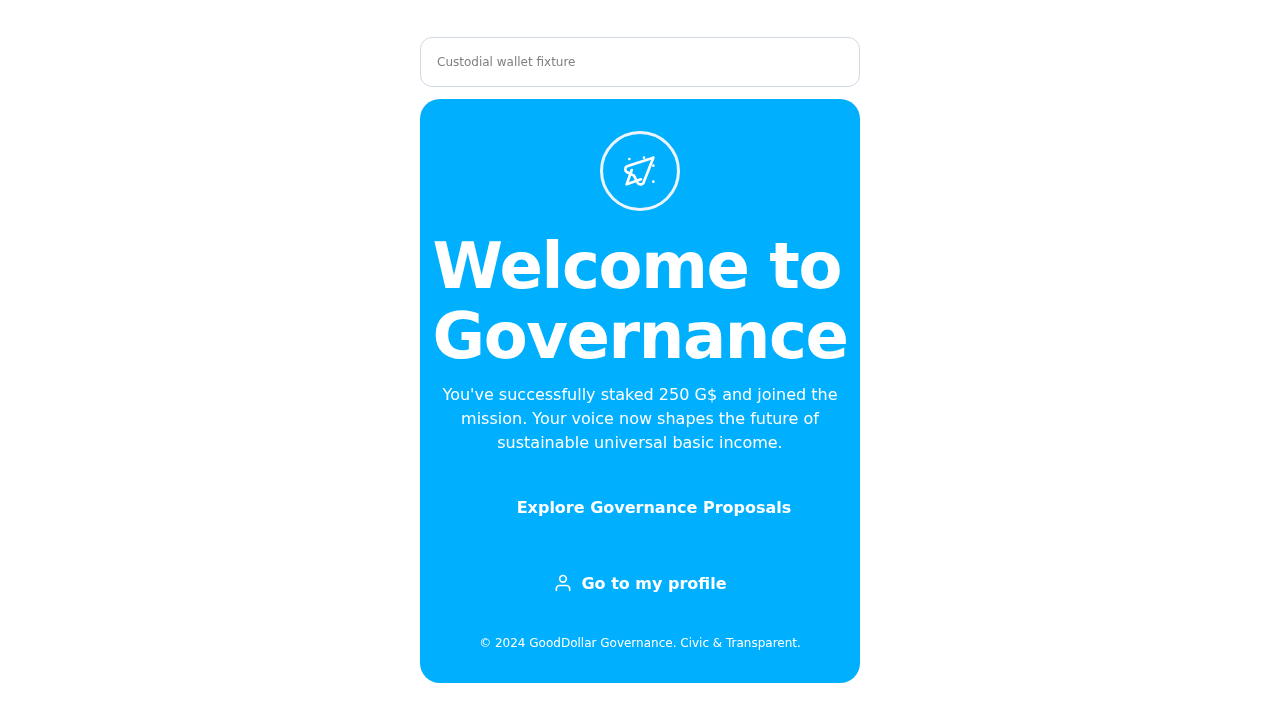
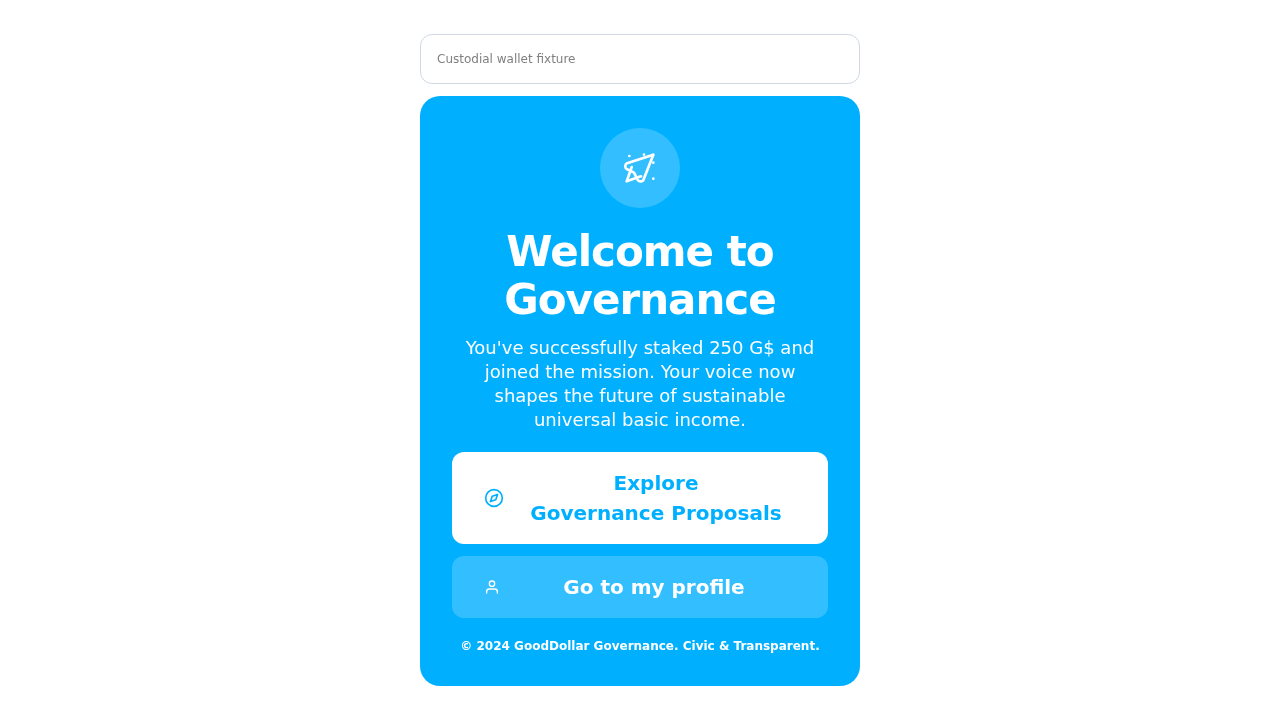
fix: align success screen design elements with Figma specifications
- Icon circle: Adjusted to 80x80px with 20% opacity white background (rgba(255,255,255,0.2)) to match figma overlay.
- Heading: level 3 (42px size) matches 40px figma text.
- Buttons: Corner radius set to 12px () for both.
- Primary Button: solid white background with brand primary text and sm compass icon.
- Secondary Button: 20% opacity white background (rgba(255,255,255,0.2)) with white text and xs user icon.
- Padding and spacing: Card padding matches 32px (), gap sets to .

diff --git a/packages/governance-widget/src/onboarding/steps/SuccessStepContent.tsx b/packages/governance-widget/src/onboarding/steps/SuccessStepContent.tsx
@@ -1,5 +1,5 @@
 import React from 'react'
-import { YStack } from 'tamagui'
+import { YStack, XStack } from 'tamagui'
 import { Button, ButtonText, Heading, Icon, Text, createComponent } from '@goodwidget/ui'
 import type { GovernanceOnboardingAction } from '../../types'
 
@@ -10,27 +10,26 @@ import type { GovernanceOnboardingAction } from '../../types'
 const SuccessCard = createComponent(YStack, {
   name: 'OnboardingSuccessCard',
   width: '100%',
-  borderRadius: '$5',
-  padding: '$6',
-  gap: '$4',
+  borderRadius: '$5', // 20px radius
+  padding: '$8',      // 32px padding
+  gap: '$5',
   alignItems: 'center',
   backgroundColor: '$primary',
 })
 
 /**
- * Celebration icon container — solid semi-transparent white fill circle.
- * Matches Figma: ~56px filled circle, no border ring.
+ * Celebration icon container — 20% opacity solid white fill circle.
+ * Matches Figma: 80x80px filled circle with 20% opacity white background, no border ring.
  * Named 'OnboardingCelebrationIcon' for theme overrides.
  */
 const CelebrationIcon = createComponent(YStack, {
   name: 'OnboardingCelebrationIcon',
-  width: 48,
-  height: 48,
+  width: 80,
+  height: 80,
   borderRadius: '$full',
   alignItems: 'center',
   justifyContent: 'center',
-  // Solid semi-transparent white — visible on the blue card background
-  backgroundColor: 'rgba(255,255,255,0.25)',
+  backgroundColor: 'rgba(255, 255, 255, 0.2)',
   borderWidth: 0,
 })
 
@@ -49,49 +48,71 @@ export function SuccessStepContent({
     <SuccessCard data-testid="GovernanceOnboardingWidget-success-card">
       {/* ── Celebration icon ─────────────────────────────────────── */}
       <CelebrationIcon data-testid="GovernanceOnboardingWidget-success">
-        <Icon name="party-popper" size="sm" color="white" />
+        <Icon name="party-popper" size="lg" color="white" />
       </CelebrationIcon>
 
       {/* ── Heading + body ───────────────────────────────────────── */}
-      <YStack alignItems="center" gap="$2" maxWidth={420}>
-        <Heading level={3} color="$white" textAlign="center">
+      <YStack alignItems="center" gap="$3" maxWidth={420}>
+        <Heading level={3} color="$white" textAlign="center" fontWeight="700">
           Welcome to Governance
         </Heading>
-        <Text color="$white" textAlign="center">
+        <Text color="$white" textAlign="center" fontSize="$4">
           {`You've successfully staked ${stakeAmountLabel} and joined the mission. Your voice now shapes the future of sustainable universal basic income.`}
         </Text>
       </YStack>
 
       {/* ── Action buttons ───────────────────────────────────────── */}
       <YStack width="100%" gap="$3">
-        {finalActions.map((action, index) => (
-          <Button
-            key={action.id}
-            fullWidth
-            disabled={action.disabled}
-            onPress={() => onFinalActionPress?.(action.id)}
-            data-testid={`GovernanceOnboardingWidget-success-${action.id}`}
-            // Primary CTA (index 0): solid white pill — white bg, primary-colored text/icon
-            // Secondary CTA (index 1): ghost — transparent bg, white text/icon
-            variant={action.variant ?? (index === 0 ? 'primary' : 'ghost')}
-            {...(index === 0
-              ? { backgroundColor: 'white', borderRadius: '$full' }
-              : {})}
-          >
-            {index === 0 ? (
-              <Icon name="compass" size="sm" color="primary" />
-            ) : (
-              <Icon name="user" size="sm" color="white" />
-            )}
-            <ButtonText color={index === 0 ? '$primary' : '$white'}>
-              {action.label}
-            </ButtonText>
-          </Button>
-        ))}
+        {finalActions.map((action, index) => {
+          const isPrimary = index === 0
+          return (
+            <Button
+              key={action.id}
+              fullWidth
+              disabled={action.disabled}
+              onPress={() => onFinalActionPress?.(action.id)}
+              data-testid={`GovernanceOnboardingWidget-success-${action.id}`}
+              // Base button style configurations for Figma parity:
+              // - Corner radius 12px ($3)
+              // - Primary CTA: solid white background
+              // - Secondary CTA: 20% opacity translucent white background
+              backgroundColor={isPrimary ? 'white' : 'rgba(255, 255, 255, 0.2)'}
+              borderRadius="$3"
+              paddingVertical="$4"
+              height="auto"
+              minHeight={isPrimary ? 88 : 62}
+              hoverStyle={{
+                backgroundColor: isPrimary ? 'rgba(255, 255, 255, 0.9)' : 'rgba(255, 255, 255, 0.3)',
+              }}
+              pressStyle={{
+                backgroundColor: isPrimary ? 'rgba(255, 255, 255, 0.8)' : 'rgba(255, 255, 255, 0.15)',
+              }}
+            >
+              <XStack alignItems="center" justifyContent="center" gap="$3" width="100%" paddingHorizontal="$4">
+                {isPrimary ? (
+                  <Icon name="compass" size="sm" color="primary" />
+                ) : (
+                  <Icon name="user" size="xs" color="white" />
+                )}
+                <ButtonText
+                  color={isPrimary ? '$primary' : '$white'}
+                  fontSize="$5"
+                  fontWeight="700"
+                  textAlign="center"
+                  lineHeight="$5"
+                  style={{ whiteSpace: 'pre-line' }}
+                  flex={1}
+                >
+                  {isPrimary ? action.label.replace(' ', '\n') : action.label}
+                </ButtonText>
+              </XStack>
+            </Button>
+          )
+        })}
       </YStack>
 
       {/* ── Footer ───────────────────────────────────────────────── */}
-      <Text variant="caption" color="$white" textAlign="center">
+      <Text variant="caption" color="$white" textAlign="center" fontWeight="600">
         {'© 2024 GoodDollar Governance. Civic & Transparent.'}
       </Text>
     </SuccessCard>